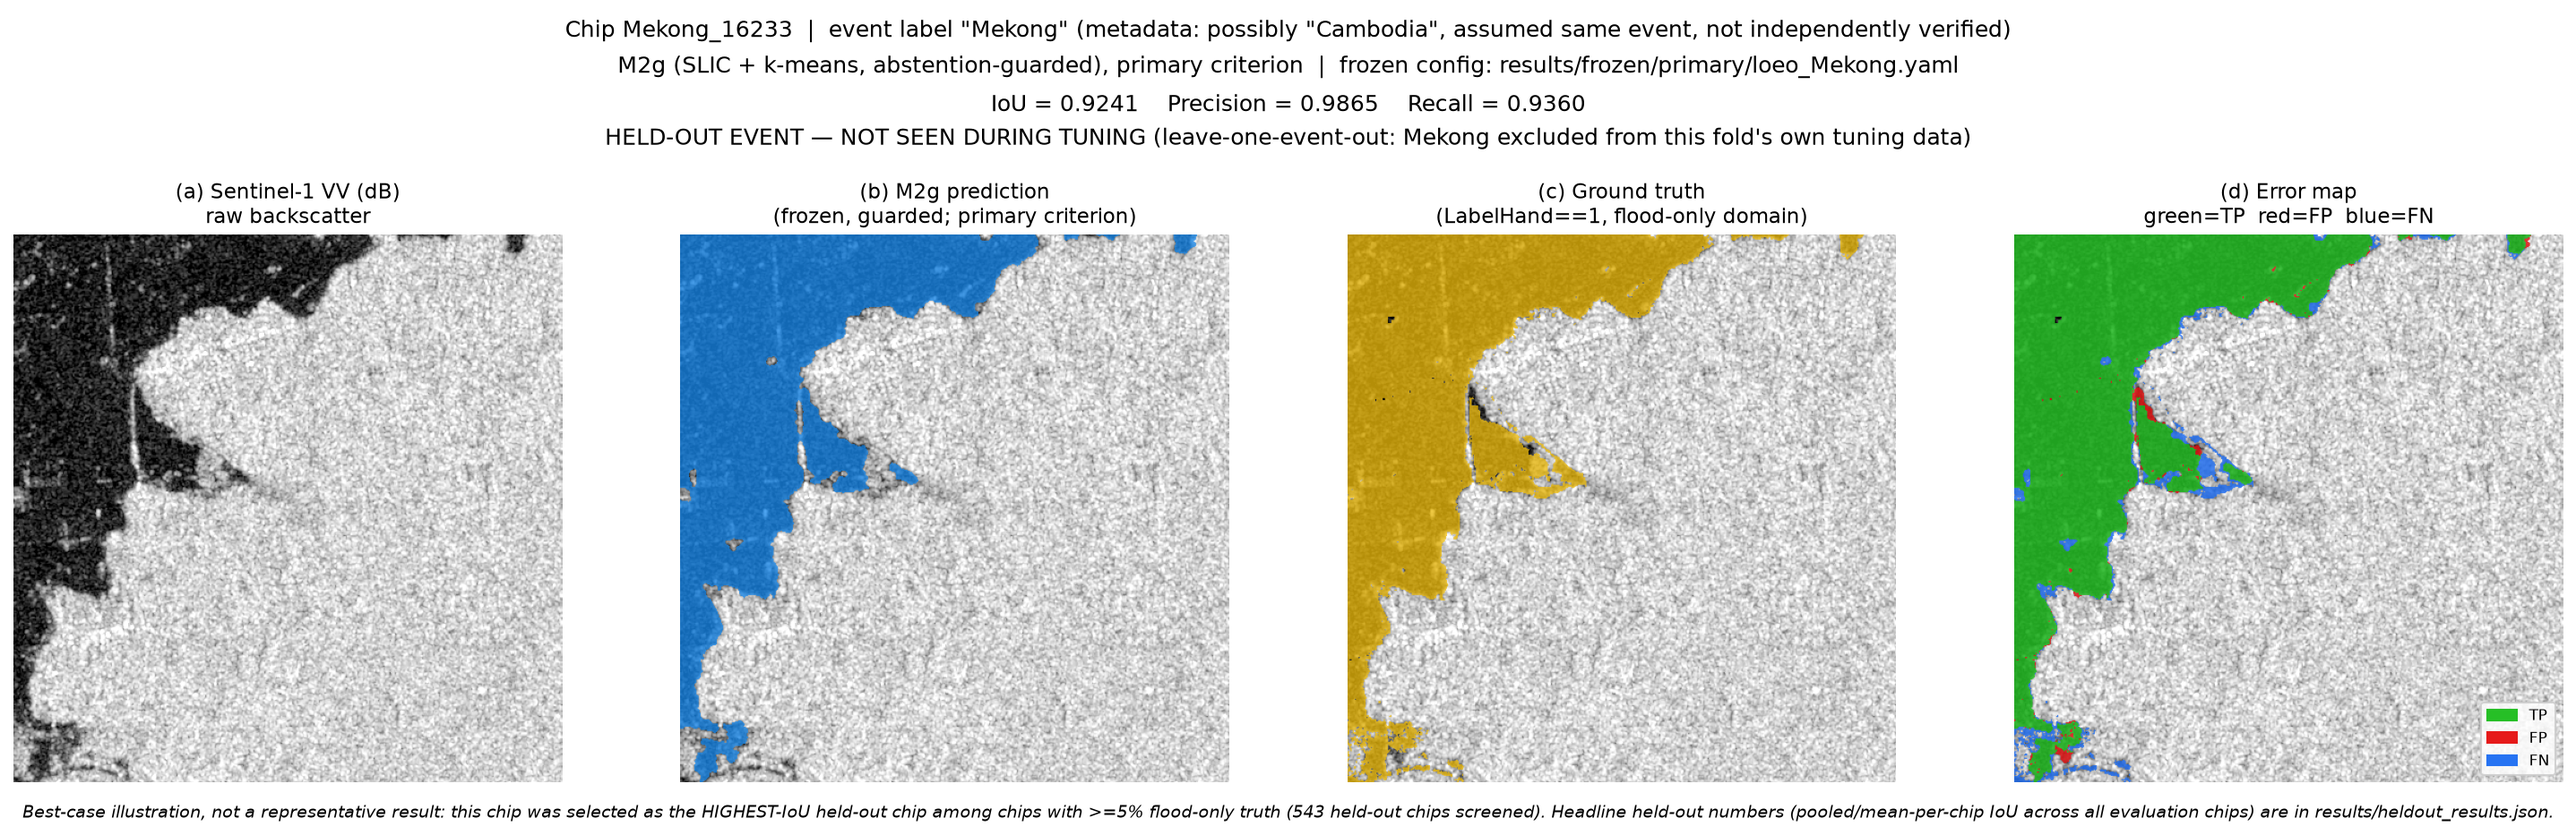
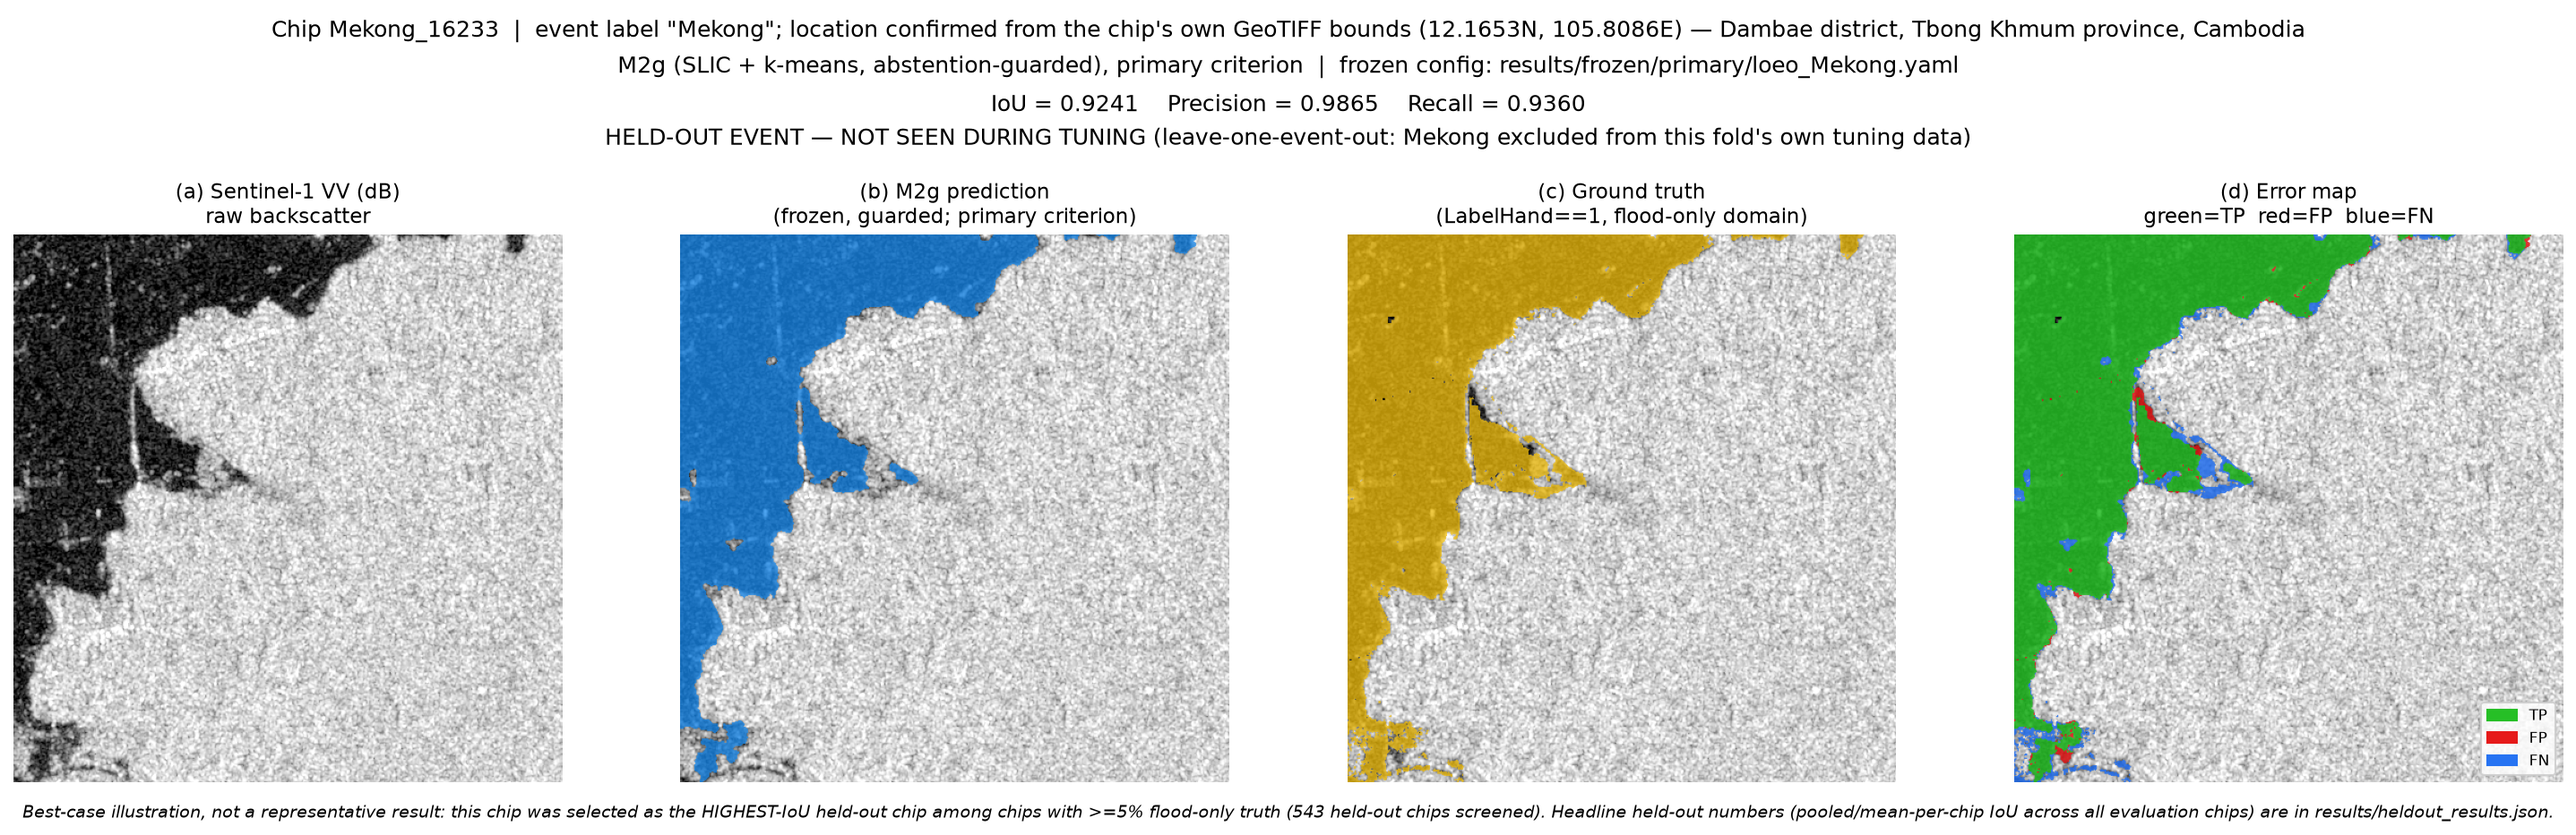
Confirm Mekong_16233's location from its own GeoTIFF bounds (12.1653N, 105.8086E), reverse-geocoded to Cambodia -- replaces the earlier chip-count-matching assumption with independent evidence. Updated figure, RESULTS.md, and the original data inspection report.

Changed region(s): [[0.0929, 0.0, 0.8977, 0.0622]]

diff --git a/results/data_inspection_report.md b/results/data_inspection_report.md
@@ -196,7 +196,10 @@ pixels, flood-only 7,643,377, JRC removes 3,062,228.
 The 446 hand-labelled chips come from **11 events**. The event metadata GeoJSON lists **12**
 events: it also lists Colombia (`val_chip: 0`, i.e. no hand-labelled chips), which is therefore
 not in our data. The chip files call one event "Mekong"; the metadata calls the matching event
-"Cambodia" (**assumed** to be the same event: both have 30 hand-labelled chips).
+"Cambodia". This is **confirmed, not assumed**: chip `Mekong_16233`'s own GeoTIFF bounds (read
+directly, not from either metadata source) center on 12.1653 N, 105.8086 E, which reverse-geocodes
+(OpenStreetMap/Nominatim) to Dambae district, Tbong Khmum province, Cambodia -- independent evidence
+beyond the matching 30-chip count that the two labels name the same event.
 
 **Measured cross-check:** the metadata `val_chip` values over the 12 events sum to 446 and equal
 my per-event counts below for all 11 events. (`train_chip` is not interpreted here; its 12 values

diff --git a/RESULTS.md b/RESULTS.md
@@ -90,7 +90,9 @@ criterion): B1 clip=none, median=7, threshold -16 dB (7/12 sets); B2g VH clip=na
 `results/figures/heldout_example_Mekong_16233_m2g.png`: M2g's frozen `loeo:Mekong` configuration on
 chip `Mekong_16233` (a genuinely held-out event; independently re-verified that this chip's fold
 excludes it from its own tuning data). IoU 0.9241, precision 0.9865, recall 0.9360 -- the single
-highest-IoU chip among 543 held-out chips with at least 5% flood-only truth. Labelled on the figure as
+highest-IoU chip among 543 held-out chips with at least 5% flood-only truth. Location confirmed from
+the chip's own GeoTIFF bounds (not the "Mekong" event name): center 12.1653 N, 105.8086 E, reverse-
+geocoded to Dambae district, Tbong Khmum province, **Cambodia**. Labelled on the figure as
 a best-case illustration, not a representative result; the representative numbers are section 2 above.
 
 ### 2.4 Gaps against the original brief (measured is measured; these were not run)
